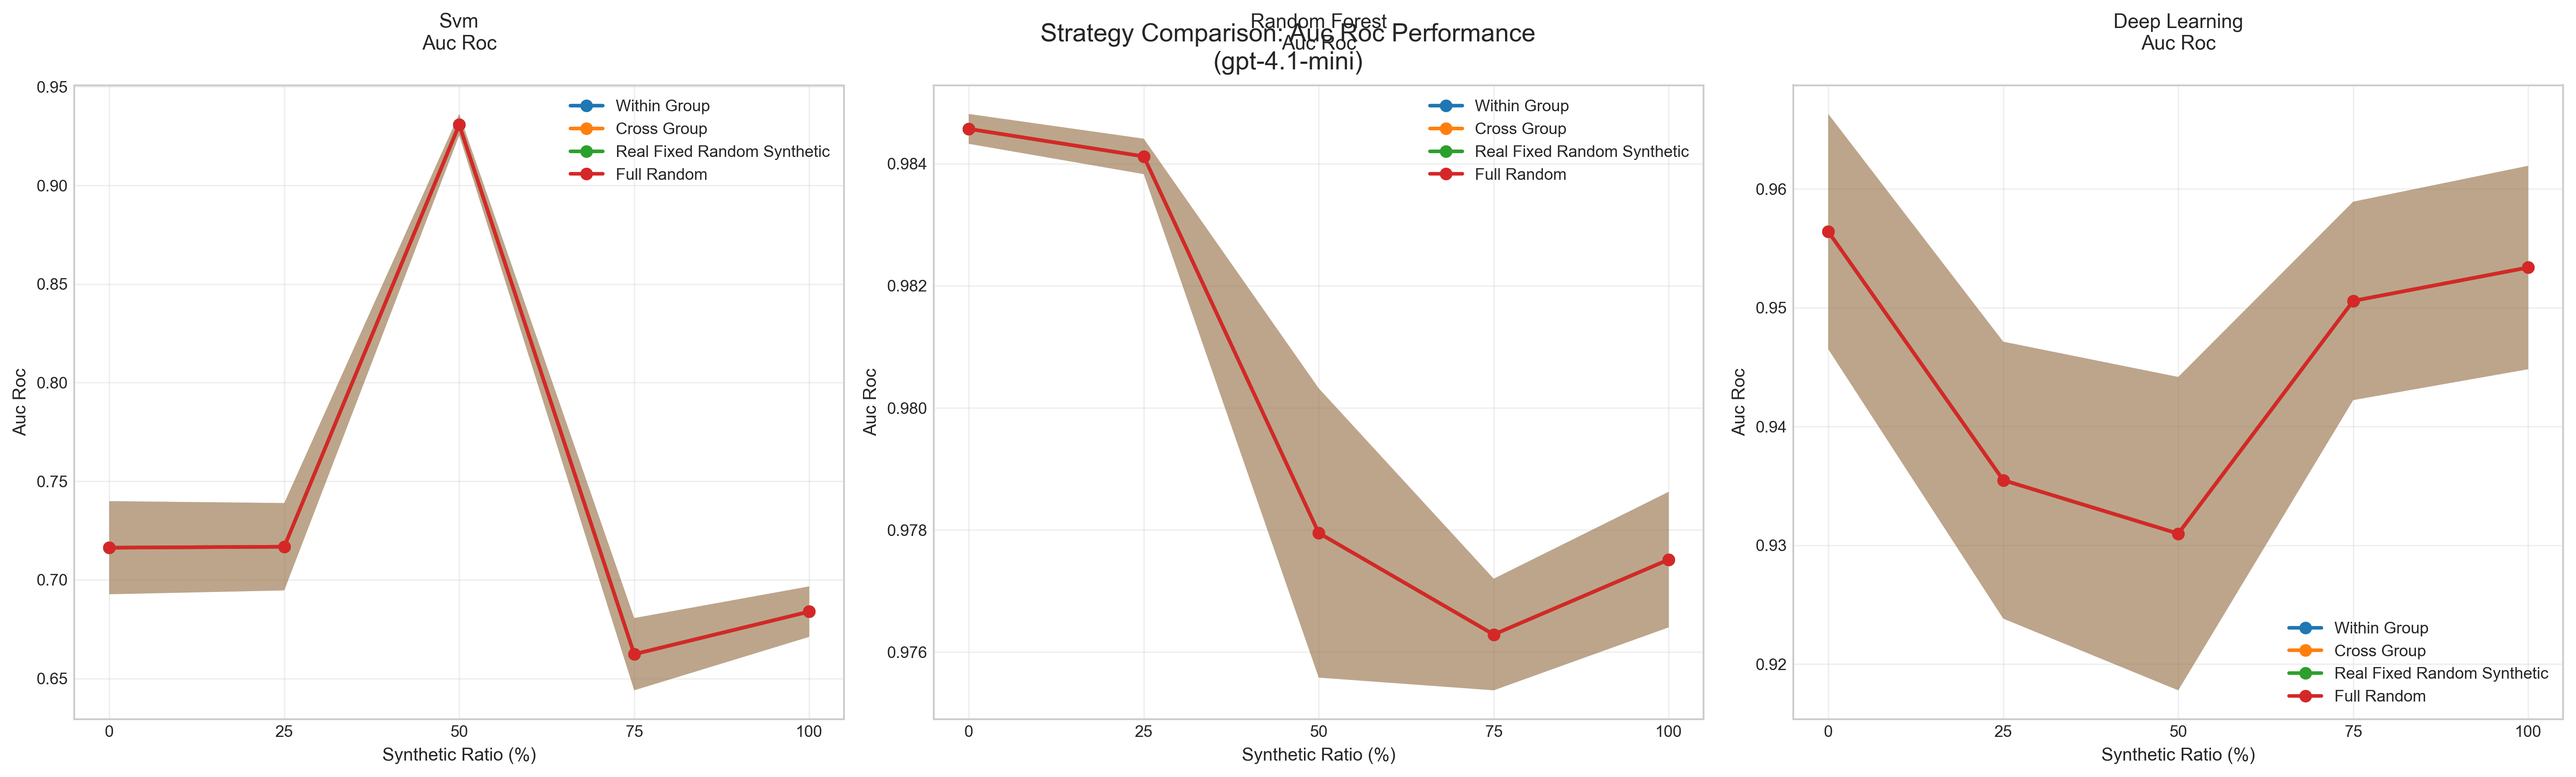
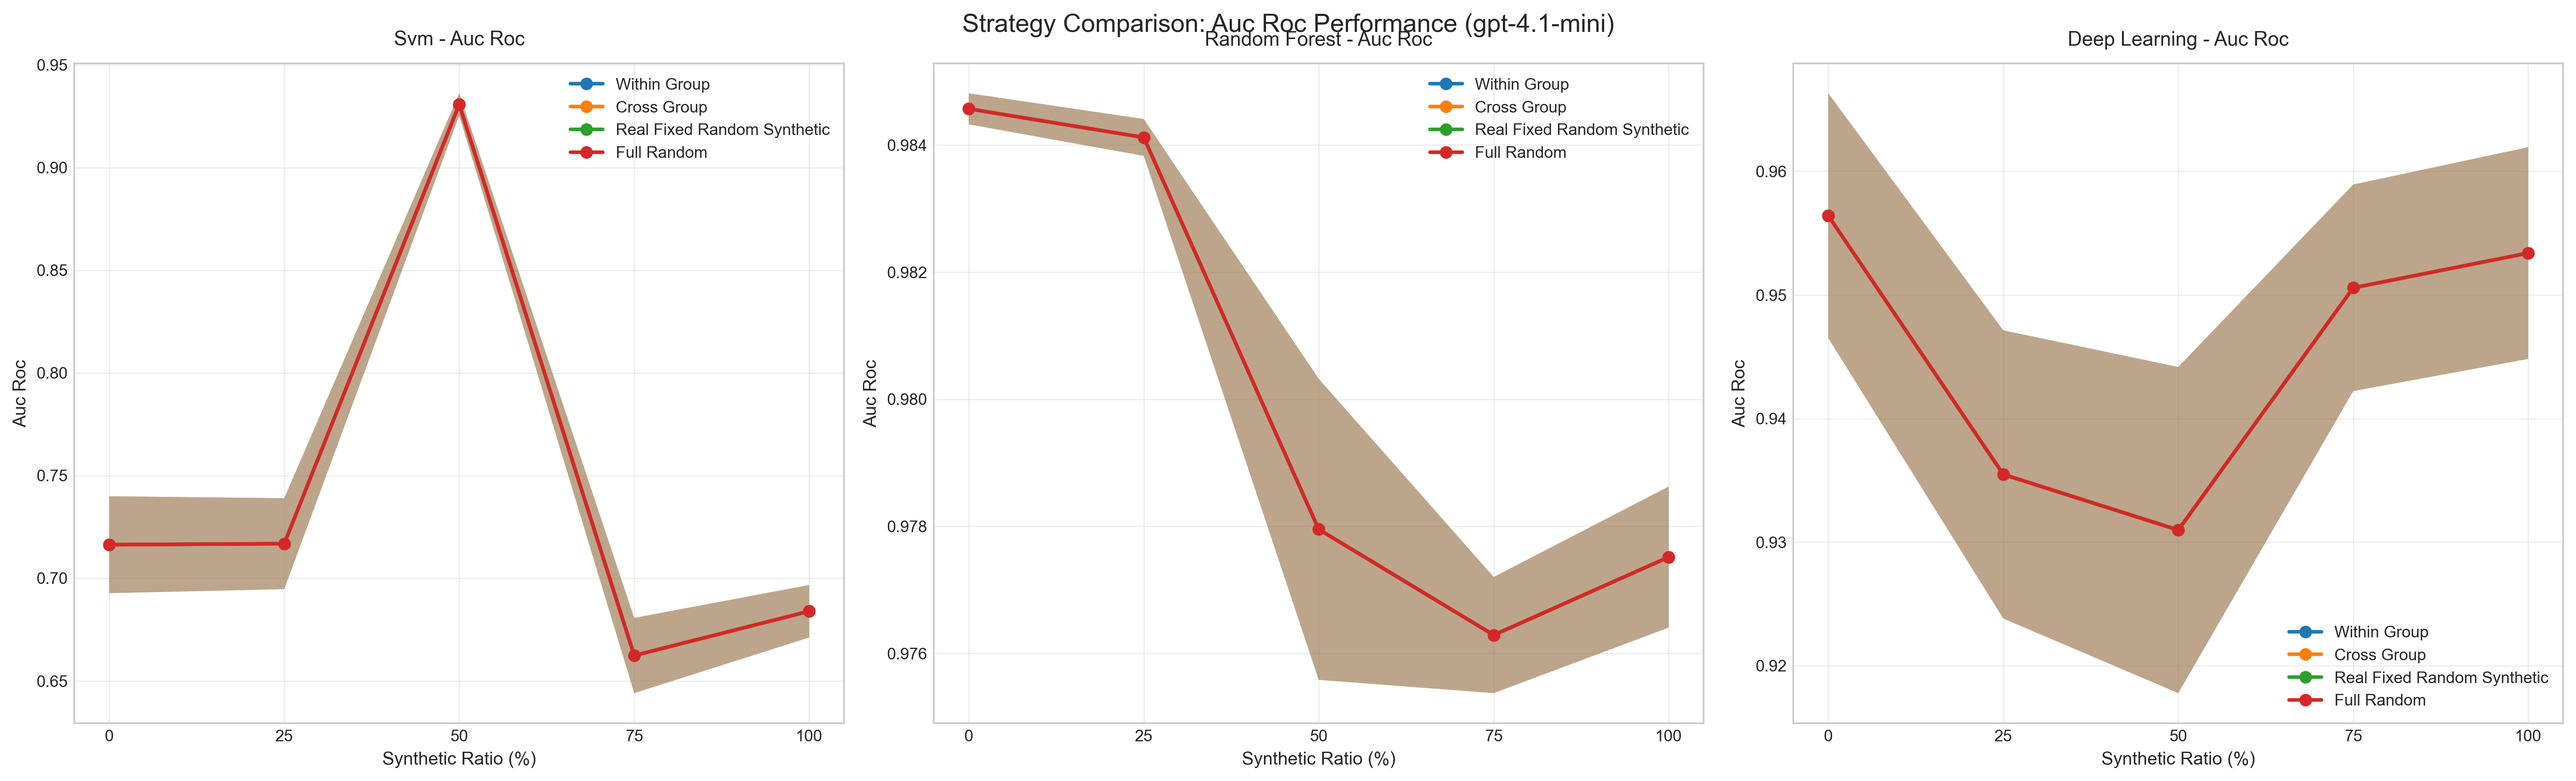
keep fixing

diff --git a/scripts/step6_enhanced_visualization.py b/scripts/step6_enhanced_visualization.py
@@ -51,14 +51,14 @@ def setup_matplotlib_style():
         'savefig.dpi': 300,
         'figure.figsize': [16, 10],
         'font.size': 10,
-        'axes.titlesize': 12,
+        'axes.titlesize': 11,
         'axes.labelsize': 10,
         'xtick.labelsize': 9,
         'ytick.labelsize': 9,
         'legend.fontsize': 9,
         'figure.titlesize': 14,
-        'axes.titlepad': 20,  # 增加标题间距
-        'figure.subplot.hspace': 0.4,  # 增加子图间垂直间距
+        'axes.titlepad': 15,  # 子图标题与图的间距
+        'figure.subplot.hspace': 0.5,  # 增加子图间垂直间距
         'figure.subplot.wspace': 0.3,  # 增加子图间水平间距
         'axes.grid': True
     })
@@ -99,6 +99,17 @@ def create_strategy_comparison_plots(df: pd.DataFrame, output_dir: str, experime
     """创建策略对比图表"""
     logger.info("创建策略对比图表")
 
+    # 调试：检查数据
+    logger.info(f"DataFrame shape: {df.shape}")
+    logger.info(f"Unique strategies: {df['strategy'].unique()}")
+    logger.info(f"Unique classifiers: {df['classifier'].unique()}")
+    logger.info(f"Unique synthetic ratios: {sorted(df['synthetic_ratio'].unique())}")
+
+    # 检查每个策略的数据量
+    for strategy in df['strategy'].unique():
+        count = len(df[df['strategy'] == strategy])
+        logger.info(f"Strategy '{strategy}': {count} records")
+
     # 获取模型信息
     model_info = "gpt-4.1-mini"
     if config and hasattr(config, 'llm'):
@@ -113,6 +124,8 @@ def create_strategy_comparison_plots(df: pd.DataFrame, output_dir: str, experime
         'f1_score': ['mean', 'std', 'count'],
         'auc_roc': ['mean', 'std', 'count']
     }).reset_index()
+
+    logger.info(f"Strategy stats shape: {strategy_stats.shape}")
 
     # 扁平化列名
     strategy_stats.columns = ['_'.join(col).strip() if col[1] else col[0] for col in strategy_stats.columns.values]
@@ -139,6 +152,7 @@ def create_strategy_comparison_plots(df: pd.DataFrame, output_dir: str, experime
                 ].copy()
 
                 if len(strategy_data) == 0:
+                    logger.warning(f"No data for strategy={strategy}, classifier={classifier}, metric={metric}")
                     continue
 
                 strategy_data = strategy_data.sort_values('synthetic_ratio')
@@ -146,6 +160,8 @@ def create_strategy_comparison_plots(df: pd.DataFrame, output_dir: str, experime
                 ratios = strategy_data['synthetic_ratio'].values
                 means = strategy_data[f'{metric}_mean'].values
                 stds = strategy_data[f'{metric}_std'].values
+
+                logger.info(f"Plotting {strategy} for {classifier}: {len(ratios)} points")
 
                 # 计算置信区间
                 ci_lower = means - 1.96 * stds / np.sqrt(strategy_data[f'{metric}_count'].values)
@@ -156,10 +172,11 @@ def create_strategy_comparison_plots(df: pd.DataFrame, output_dir: str, experime
                        linewidth=2, markersize=6)
                 ax.fill_between(ratios, ci_lower, ci_upper, alpha=0.2)
 
-            ax.set_title(f'{classifier.replace("_", " ").title()}\n{metric.replace("_", " ").title()}', fontsize=11)
+            ax.set_title(f'{classifier.replace("_", " ").title()} - {metric.replace("_", " ").title()}',
+                        fontsize=11, pad=10)
             ax.set_xlabel('Synthetic Ratio (%)', fontsize=10)
             ax.set_ylabel(metric.replace('_', ' ').title(), fontsize=10)
-            ax.legend(fontsize=9)
+            ax.legend(fontsize=9, loc='best')
             ax.grid(True, alpha=0.3)
 
             # 设置x轴
@@ -167,10 +184,10 @@ def create_strategy_comparison_plots(df: pd.DataFrame, output_dir: str, experime
             ax.set_xticks(unique_ratios)
             ax.set_xticklabels(unique_ratios)
 
-        plt.suptitle(f'Strategy Comparison: {metric.replace("_", " ").title()} Performance\n({model_info})',
-                    fontsize=14, y=0.98)
+        plt.suptitle(f'Strategy Comparison: {metric.replace("_", " ").title()} Performance ({model_info})',
+                    fontsize=14, y=0.995)
         plt.tight_layout()
-        plt.subplots_adjust(top=0.9)
+        plt.subplots_adjust(top=0.93, bottom=0.08)
         plt.savefig(os.path.join(output_dir, f'{experiment_name}_strategy_comparison_{metric}.png'),
                    bbox_inches='tight', dpi=300, facecolor='white')
         plt.close()
@@ -226,9 +243,9 @@ def create_baseline_comparison_chart(df: pd.DataFrame, output_dir: str, experime
     ax.set_xticks(angles[:-1])
     ax.set_xticklabels(metric_labels)
     ax.set_ylim(0, 1)
-    ax.set_title(f'Baseline Performance Comparison (0% Synthetic)\n{model_info}',
-                size=14, fontweight='bold', pad=20)
-    ax.legend(loc='upper right', bbox_to_anchor=(1.1, 1.1))
+    ax.set_title(f'Baseline Performance Comparison - 0% Synthetic ({model_info})',
+                size=14, fontweight='bold', pad=25)
+    ax.legend(loc='upper right', bbox_to_anchor=(1.15, 1.15))
 
     plt.tight_layout()
     plt.savefig(os.path.join(output_dir, f'{experiment_name}_baseline_radar.png'),
@@ -321,7 +338,7 @@ def create_degradation_heatmaps(df: pd.DataFrame, output_dir: str, experiment_na
         # 创建热力图
         sns.heatmap(pivot_data, annot=True, cmap='RdYlBu_r', center=0,
                    ax=ax, fmt='.1f', cbar_kws={'label': 'Degradation (%)'})
-        ax.set_title(f'{metric.replace("_", " ").title()} Degradation (%)', fontsize=12)
+        ax.set_title(f'{metric.replace("_", " ").title()} Degradation (%)', fontsize=12, pad=10)
         ax.set_xlabel('Synthetic Ratio (%)', fontsize=10)
         ax.set_ylabel('Strategy & Classifier', fontsize=10)
 
@@ -333,9 +350,9 @@ def create_degradation_heatmaps(df: pd.DataFrame, output_dir: str, experiment_na
     for i in range(len(metrics), len(axes)):
         axes[i].set_visible(False)
 
-    plt.suptitle(f'Performance Degradation Heatmaps\n{model_info}', fontsize=16, y=0.98)
+    plt.suptitle(f'Performance Degradation Heatmaps ({model_info})', fontsize=16, y=0.995)
     plt.tight_layout()
-    plt.subplots_adjust(top=0.92)
+    plt.subplots_adjust(top=0.93, bottom=0.05)
     plt.savefig(os.path.join(output_dir, f'{experiment_name}_degradation_heatmaps.png'),
                bbox_inches='tight', dpi=300, facecolor='white')
     plt.close()
@@ -471,7 +488,7 @@ def main():
     create_strategy_comparison_plots(df, output_dir, experiment_name, config)
     create_baseline_comparison_chart(df, output_dir, experiment_name, config)
     create_degradation_heatmaps(df, output_dir, experiment_name, config)
-    create_best_strategy_summary(df, output_dir, experiment_name, config)
+    # create_best_strategy_summary(df, output_dir, experiment_name, config)  # 用户不需要
 
     logger.info(f"所有可视化已保存到: {output_dir}")
     logger.info("增强可视化分析完成")
